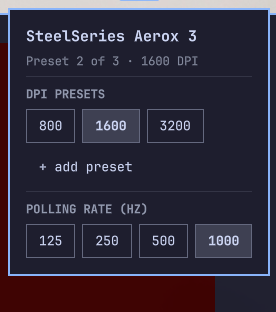
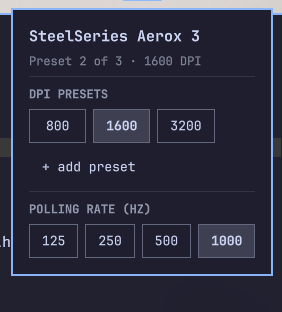
Give every DPI chip one width so the grid rows line up
A Grid sizes each column to its widest cell and parks narrower items at
the column's left edge, so a three-digit 800 beside a four-digit 3200
left ragged gaps that got worse once a fourth and fifth preset wrapped
onto a second row.

Every chip now takes its width from a hidden Button measuring the widest
DPI the device can hold. Measuring the device's ceiling rather than the
current table also means nothing moves when a scrolled value crosses a
digit boundary, and borrowing a real Button keeps the padding and border
arithmetic where Button already does it.

Claude-Session: https://claude.ai/code/session_01Bm9Ax6g9Kv3NiqBBmjmgMh

diff --git a/Panel.qml b/Panel.qml
@@ -345,6 +345,25 @@ Panel {
       anchors.fill: parent
       onCloseRequested: root.close()
 
+      // Never drawn: it exists so every chip can borrow one width.
+      //
+      // A Grid sizes each column to its widest cell and leaves narrower ones
+      // sitting at the left of the gap, so a three-digit 800 beside a
+      // four-digit 3200 pulls the rows out of line. Measuring the widest DPI
+      // this device can hold — rather than the widest it currently holds —
+      // also keeps the chips and the panel still while a value is scrolled
+      // past a digit boundary. Borrowing a real Button rather than computing
+      // from a font metric means the padding and border arithmetic stays
+      // wherever Button keeps it.
+      Button {
+        id: chipSizer
+        visible: false
+        bordered: true
+        text: String(root.dpiMax)
+        fontFamily: root.fontFamily
+        fontSize: Style.font.bodySmall
+      }
+
       Column {
         id: column
         anchors.fill: parent
@@ -437,6 +456,7 @@ Panel {
               }
 
               text: String(chip.dpi)
+              width: chipSizer.implicitWidth
               bordered: true
               selected: root.selectable && index === root.selected
               foreground: root.panelFg
